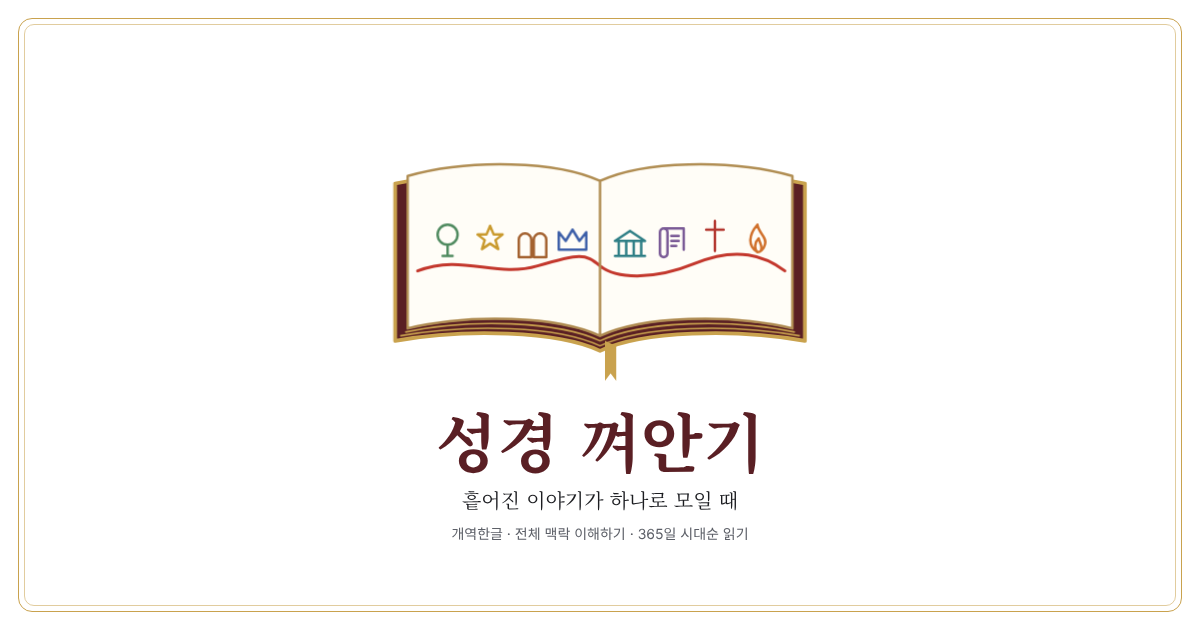
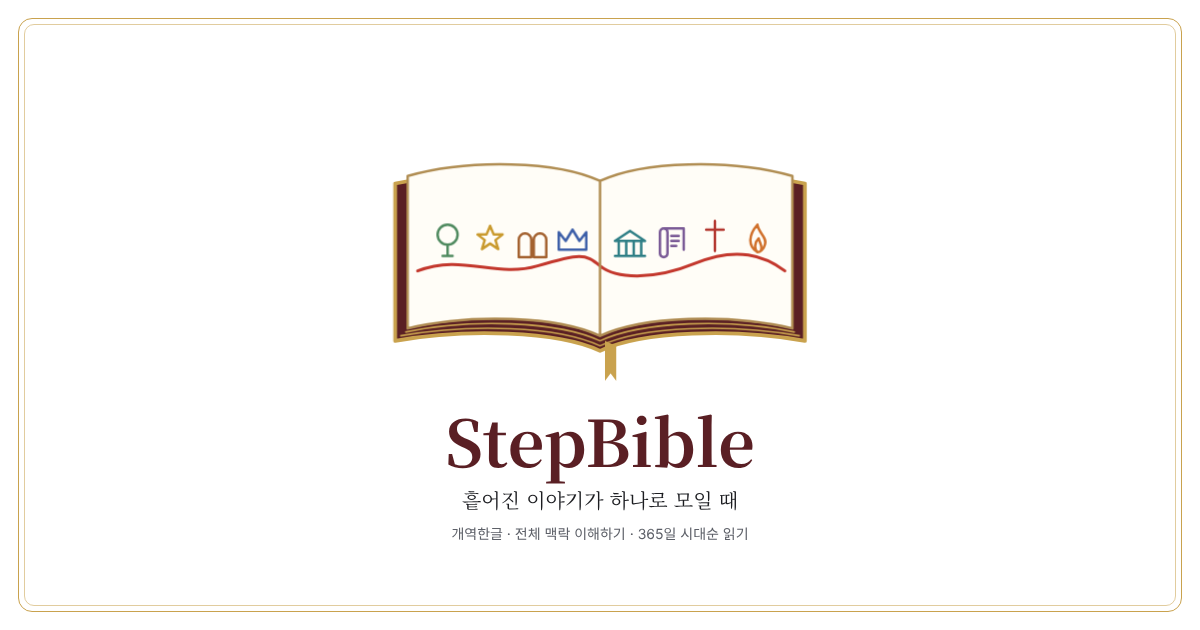
1.51: 앱 이름 StepBible로 변경, 제목줄 아이콘 제거, 표지 애니메이션 보류
Claude-Session: https://claude.ai/code/session_01ShrJEvwfrySTnp1QrGgoXP

Changed region(s): [[0.37, 0.6333, 0.6475, 0.754]]

diff --git a/index.html b/index.html
@@ -3,15 +3,15 @@
 <head>
 <meta charset="utf-8">
 <meta name="viewport" content="width=device-width, initial-scale=1, viewport-fit=cover">
-<title>성경 껴안기</title>
+<title>StepBible</title>
 <meta name="description" content="흐름으로 읽는 개역한글 성경 — 큰 그림, 365일 시대순 읽기, 66권 해설">
 <meta name="theme-color" content="#5a1f24">
 <link rel="manifest" href="manifest.webmanifest">
 <link rel="icon" href="icon-192.png">
 <link rel="apple-touch-icon" href="apple-touch-icon.png">
 <meta name="apple-mobile-web-app-capable" content="yes">
-<meta name="apple-mobile-web-app-title" content="성경 껴안기">
-<meta property="og:title" content="성경 껴안기">
+<meta name="apple-mobile-web-app-title" content="StepBible">
+<meta property="og:title" content="StepBible">
 <meta property="og:description" content="흩어진 이야기가 하나로 모일 때 — 흐름으로 읽는 개역한글 성경">
 <meta property="og:image" content="https://jongho88.github.io/bible/thumb.png">
 <meta property="og:image:width" content="1200">
@@ -332,7 +332,7 @@ textarea{min-height:96px;resize:vertical}
 <body>
 <div class="app">
  <header class="top">
-  <h1><svg viewBox="0 0 32 32" aria-hidden="true"><rect x="5" y="4" width="22" height="25" rx="3" fill="#23418f"/><rect x="8" y="4" width="2" height="25" fill="#c3372c"/><path d="M18 9v12M14 13h8" stroke="#fff" stroke-width="2.2" stroke-linecap="round"/></svg><button id="cov" style="min-height:0;font:inherit;color:inherit" aria-label="표지 보기">성경 껴안기</button></h1>
+  <h1>StepBible</h1>
   <span class="st" id="st">본문 불러오는 중…</span>
  </header>
  <main>
@@ -373,7 +373,7 @@ textarea{min-height:96px;resize:vertical}
 
 <div class="scrim" id="scrim"></div>
 <div class="sheet" id="sheet" role="dialog" aria-modal="true"></div>
-<div class="cover" id="cover" role="dialog" aria-label="표지"><div class="frame">
+<div class="cover off" id="cover" role="dialog" aria-label="표지" hidden><div class="frame">
  <svg viewBox="0 0 360 232" aria-hidden="true">
   <path class="cv" d="M180 74C146 60 72 58 16 70V196C72 186 146 188 180 204 214 188 288 186 344 196V70C288 58 214 60 180 74Z"/>
   <path class="pgf" d="M180 68C146 52 76 50 26 64V186C76 174 146 176 180 192 214 176 284 174 334 186V64C284 50 214 52 180 68Z"/>
@@ -392,7 +392,7 @@ textarea{min-height:96px;resize:vertical}
   <path class="ed" pathLength="1" style="animation-delay:3.75s" d="M20 192C76 182 146 184 180 200 214 184 284 182 340 192"/>
   <path class="rb" d="M184 196V228L188.5 222 193 228V200Z"/>
  </svg>
- <h2 class="fade">성경 껴안기</h2>
+ <h2 class="fade">StepBible</h2>
  <p class="tag fade">흩어진 이야기가 하나로 모일 때</p>
  <p class="sub fade">개역한글 · 전체 맥락 이해하기 · 365일 시대순 읽기</p>
  <div class="ft">성경전서 개역한글판 (대한성서공회)</div>
@@ -1229,7 +1229,7 @@ function rMe(){
    <div class="sh">백업</div><p class="small muted" style="margin:0 0 8px">마크·메모·읽은 날을 글자로 복사해 두었다가, 다른 브라우저에서 붙여 넣어 되살릴 수 있어요.</p>
    <div class="links" style="margin-top:0"><button class="btn ghost" id="bk1">기록 복사하기</button><button class="btn ghost" id="bk2">붙여 넣어 되살리기</button></div>
    <div id="bkbox"></div>
-   <div class="sh">앱 정보</div><p class="small" style="margin:0">성경 껴안기 <b>버전 1.50</b> <span class="muted">· 2026년 11월 25일 업데이트</span></p>
+   <div class="sh">앱 정보</div><p class="small" style="margin:0">StepBible <b>버전 1.51</b> <span class="muted">· 2026년 11월 25일 업데이트</span></p>
    <div class="sh">출처</div><p class="small muted" style="margin:0">본문: 성경전서 개역한글판 (대한성서공회). 1961년판으로 2012년 저작권이 만료되어 퍼블릭 도메인이에요. 본문은 바꾸지 않고 그대로 실었어요. 데이터: bible-db 프로젝트의 holybible.or.kr 수집본.<br>해설, 시대 설명, 낱말 풀이, 읽기표는 이 앱을 위해 새로 쓴 것으로, 교파와 학자마다 견해가 다른 부분은 그렇다고 밝혀 두었어요.</p></div>`;
 }
 $("#v-me").addEventListener("click",async e=>{const t=e.target;
@@ -1243,7 +1243,7 @@ $("#v-me").addEventListener("click",async e=>{const t=e.target;
 const cov=$("#cover");
 function hideCover(){cov.classList.add("off");try{sessionStorage.setItem("cov","1")}catch(e){}}
 cov.addEventListener("click",hideCover);addEventListener("keydown",e=>{if(!cov.classList.contains("off")&&(e.key==="Enter"||e.key===" "||e.key==="Escape")){e.preventDefault();hideCover()}});
-$("#cov").onclick=()=>cov.classList.remove("off");
+
 try{if(sessionStorage.getItem("cov"))cov.classList.add("off")}catch(e){}
 go(location.hash.slice(1)||"story");
 initDb();

diff --git a/sw.js b/sw.js
@@ -1,6 +1,6 @@
-// 성경 껴안기 — 오프라인 지원
+// StepBible — 오프라인 지원
 // 앱 내용을 고쳐서 다시 올릴 때는 아래 버전 숫자를 하나 올려 주세요 (v1 → v2).
-const VERSION = "bible-v50";
+const VERSION = "bible-v51";
 const CORE = ["./", "./index.html", "./bible.json", "./manifest.webmanifest", "./icon-192.png", "./icon-512.png", "./apple-touch-icon.png", "./thumb.png"];
 
 self.addEventListener("install", e => {

diff --git a/README.md b/README.md
@@ -1,4 +1,4 @@
-# 성경 껴안기
+# StepBible
 
 흐름으로 읽는 개역한글 성경 웹앱이에요. 큰 그림 카드, 365일 시대순 읽기표, 66권 해설, 검색·마크·메모, 읽어주기 기능이 있어요.
 
